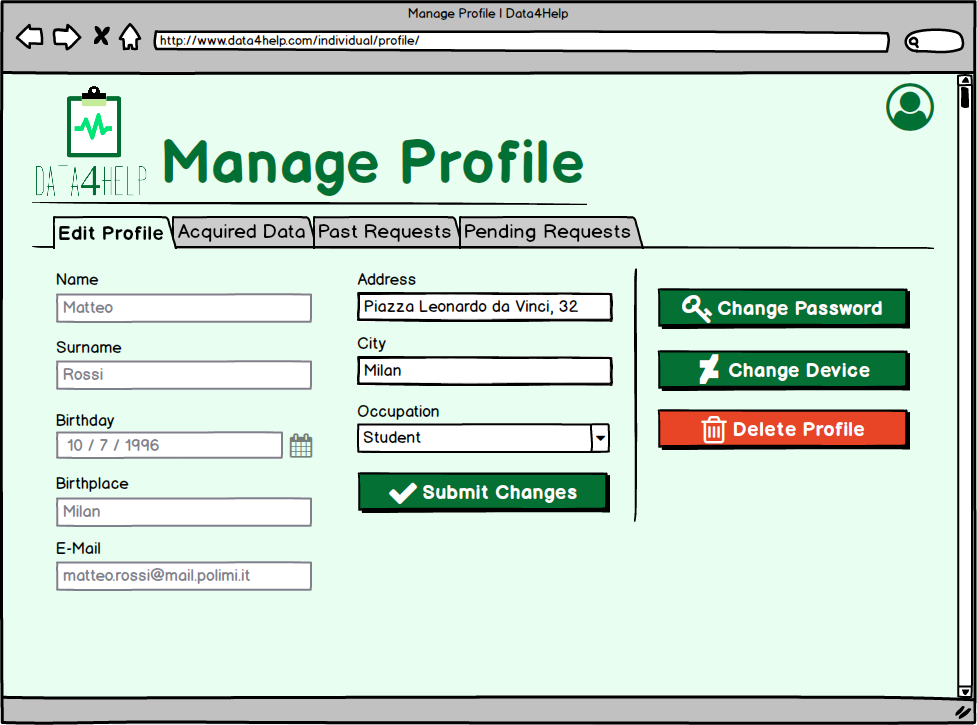
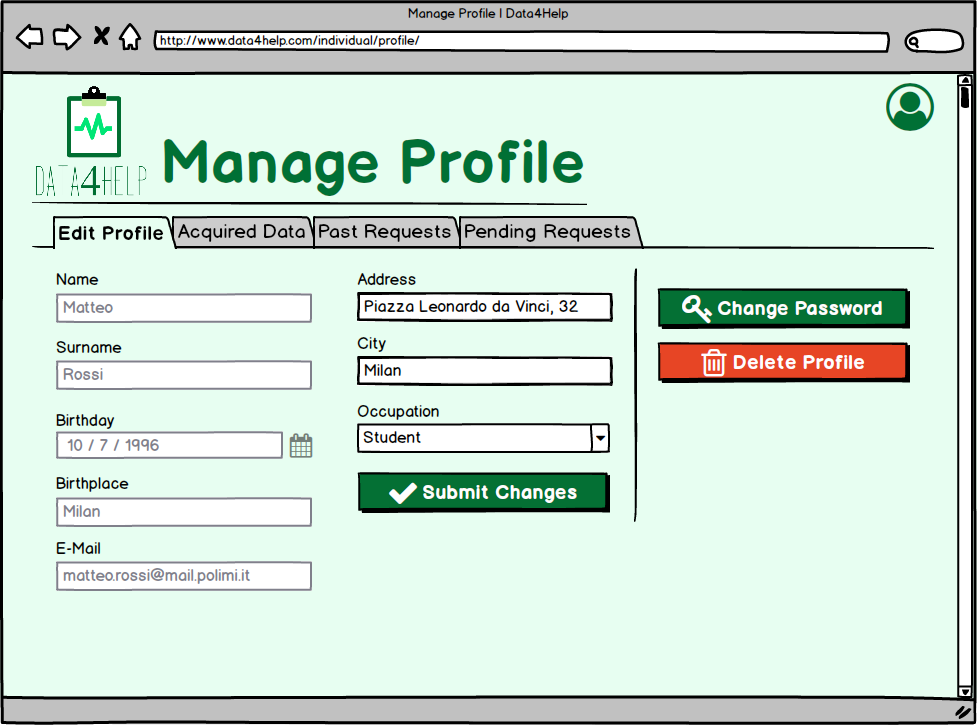
Fixed Mockups and Added missing files in DD

Changed region(s): [[0.6755, 0.4552, 0.9519, 0.6372]]

diff --git a/DD/dd.tex b/DD/dd.tex
@@ -95,14 +95,17 @@
 
 %User Interface Design
 \chapter{User Interface Design}
+\input{./files/uxDesign.tex}
 \clearpage
 
 %Requirements Traceability
 \chapter{Requirements Traceability}
+\input{./files/requirementsTraceability.tex}
 \clearpage
 
 %Implementation, Integration and Test Plan
 \chapter{Implementation, Integration and Test Plan}
+\input{./files/implInt&testPlan.tex}
 \clearpage
 
 %Effort Spent
